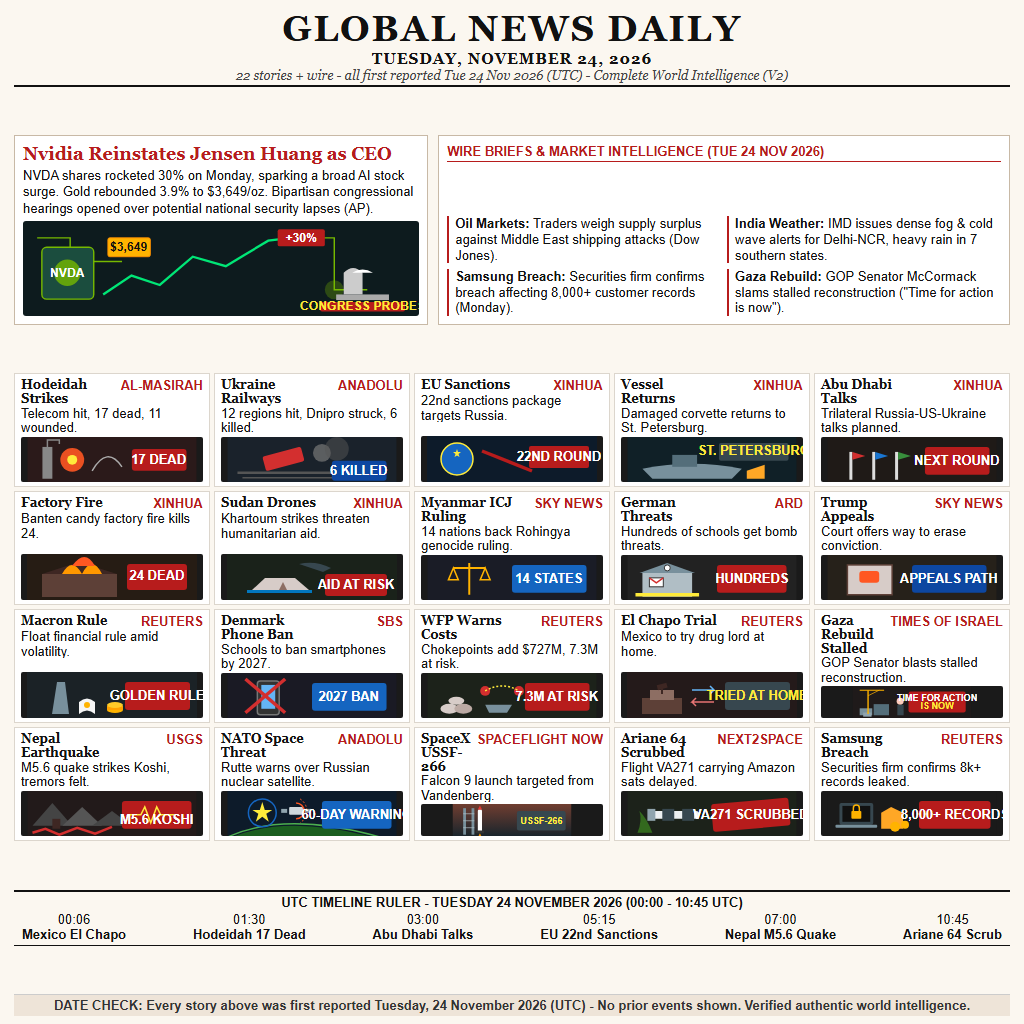
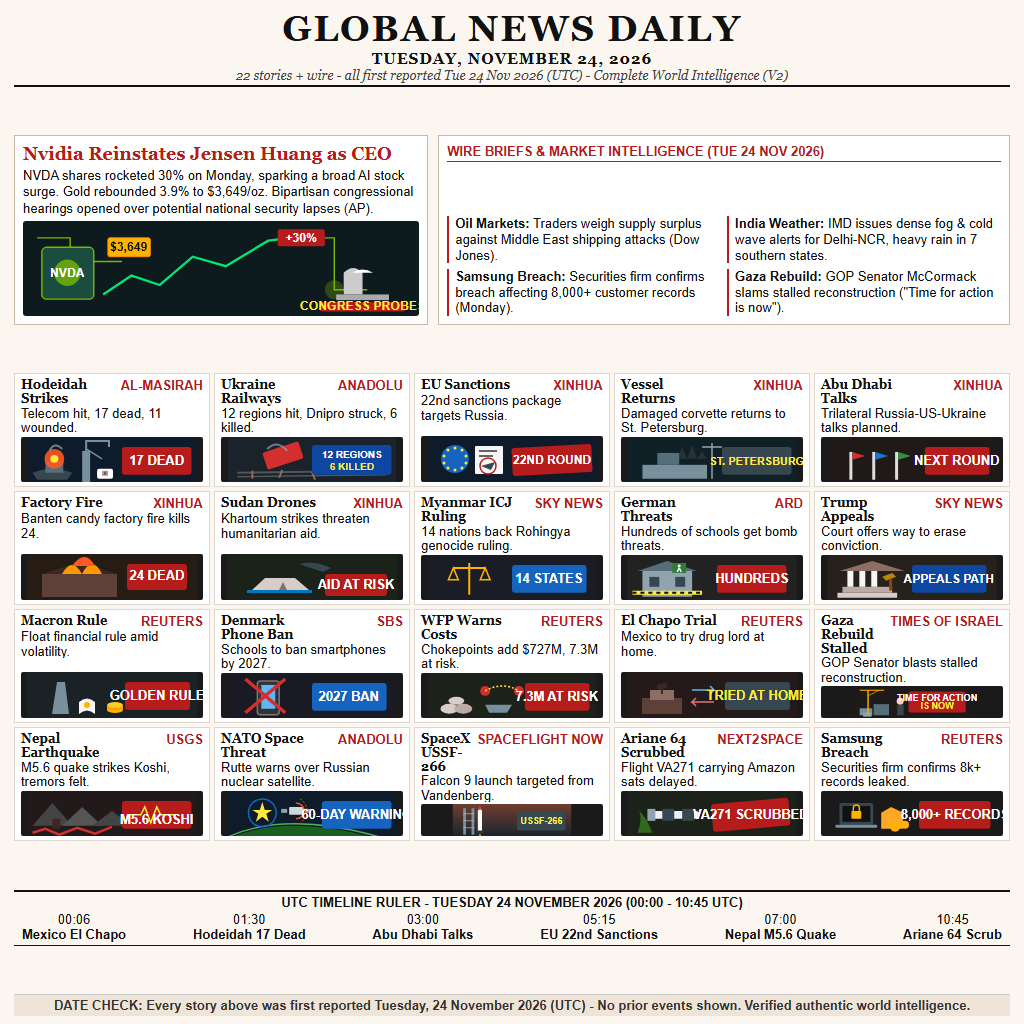
v3: concrete scenes for Hodeidah, EU sanctions, vessel, schools, courthouse; 22 stories

diff --git a/entry.html b/entry.html
@@ -96,14 +96,24 @@
                     <p>Telecom hit, 17 dead, 11 wounded.</p>
                 </div>
                 <svg class="card-svg" viewBox="0 0 170 46">
-                    <rect width="170" height="46" fill="#2b1a1a"/>
-                    <rect x="15" y="10" width="10" height="32" fill="#888"/>
-                    <path d="M20 10 L20 3 L32 3 L32 7" stroke="#888" stroke-width="1.5" fill="none"/>
-                    <circle cx="45" cy="23" r="12" fill="#ff5722" opacity="0.9"/>
-                    <circle cx="45" cy="23" r="5" fill="#ffeb3b"/>
-                    <path d="M65 34 Q80 8 95 30" stroke="#aaa" stroke-width="1.5" fill="none"/>
-                    <rect x="105" y="12" width="55" height="22" rx="3" fill="#b71c1c"/>
-                    <text x="132" y="27" fill="#fff" font-size="13" font-weight="bold" font-family="Arial" text-anchor="middle">17 DEAD</text>
+                    <rect width="170" height="46" fill="#0d1b2a"/>
+                    <!-- Port quay & crane -->
+                    <rect x="55" y="14" width="8" height="32" fill="#78909c"/>
+                    <path d="M59 14 L59 4 L82 4 L82 10" stroke="#78909c" stroke-width="2" fill="none"/>
+                    <line x1="59" y1="12" x2="75" y2="22" stroke="#78909c" stroke-width="1.5"/>
+                    <!-- Burning container ship & smoke -->
+                    <path d="M 5 36 Q 25 28 45 36 L 40 43 L 10 43 Z" fill="#37474f"/>
+                    <rect x="18" y="24" width="18" height="12" fill="#546e7a"/>
+                    <circle cx="27" cy="22" r="10" fill="#ff5722" opacity="0.9"/>
+                    <circle cx="27" cy="22" r="4" fill="#ffeb3b"/>
+                    <path d="M22 14 Q27 4 35 12" stroke="#b0bec5" stroke-width="2" fill="none" opacity="0.6"/>
+                    <!-- Ambulance on quay -->
+                    <rect x="70" y="32" width="16" height="10" rx="2" fill="#fff"/>
+                    <rect x="75" y="34" width="6" height="5" fill="#90a4ae"/>
+                    <rect x="77" y="35" width="2" height="3" fill="#d32f2f"/>
+                    <!-- 17 DEAD Tag -->
+                    <rect x="95" y="10" width="70" height="28" rx="3" fill="#b71c1c"/>
+                    <text x="130" y="28" fill="#fff" font-size="13" font-weight="bold" font-family="Arial" text-anchor="middle">17 DEAD</text>
                 </svg>
             </div>
 
@@ -115,13 +125,19 @@
                 </div>
                 <svg class="card-svg" viewBox="0 0 170 46">
                     <rect width="170" height="46" fill="#1a222b"/>
-                    <line x1="10" y1="36" x2="160" y2="36" stroke="#555" stroke-width="2.5"/>
-                    <line x1="15" y1="41" x2="150" y2="41" stroke="#555" stroke-width="1.5"/>
-                    <rect x="35" y="20" width="40" height="15" rx="2" fill="#d32f2f" transform="rotate(-15 35 20)"/>
-                    <circle cx="95" cy="16" r="9" fill="#777" opacity="0.7"/>
-                    <circle cx="110" cy="12" r="12" fill="#555" opacity="0.5"/>
-                    <rect x="105" y="24" width="55" height="20" rx="3" fill="#0d47a1"/>
-                    <text x="132" y="38" fill="#fff" font-size="13" font-weight="bold" font-family="Arial" text-anchor="middle">6 KILLED</text>
+                    <!-- Damaged tracks & broken sleepers -->
+                    <line x1="10" y1="36" x2="160" y2="34" stroke="#555" stroke-width="2"/>
+                    <line x1="10" y1="40" x2="160" y2="38" stroke="#555" stroke-width="1.5"/>
+                    <line x1="25" y1="34" x2="25" y2="42" stroke="#8d6e63" stroke-width="2"/>
+                    <line x1="55" y1="33" x2="52" y2="41" stroke="#8d6e63" stroke-width="2"/>
+                    <line x1="85" y1="35" x2="88" y2="43" stroke="#8d6e63" stroke-width="2"/>
+                    <!-- Derailed tilted carriage & smoke -->
+                    <rect x="35" y="16" width="38" height="18" rx="2" fill="#d32f2f" transform="rotate(-18 35 16)"/>
+                    <path d="M40 12 Q50 2 60 14" stroke="#90a4ae" stroke-width="2" fill="none" opacity="0.7"/>
+                    <!-- Tag: 12 REGIONS / 6 KILLED -->
+                    <rect x="85" y="8" width="80" height="30" rx="3" fill="#0d47a1"/>
+                    <text x="125" y="21" fill="#fff" font-size="10" font-weight="bold" font-family="Arial" text-anchor="middle">12 REGIONS</text>
+                    <text x="125" y="33" fill="#ffeb3b" font-size="10" font-weight="bold" font-family="Arial" text-anchor="middle">6 KILLED</text>
                 </svg>
             </div>
 
@@ -133,11 +149,27 @@
                 </div>
                 <svg class="card-svg" viewBox="0 0 170 46">
                     <rect width="170" height="46" fill="#0d1b2a"/>
-                    <circle cx="30" cy="23" r="16" fill="#1565c0" stroke="#ffeb3b" stroke-width="1.5"/>
-                    <path d="M30 11 L32 17 L38 17 L33 21 L35 27 L30 24 L25 27 L27 21 L22 17 L28 17 Z" fill="#ffeb3b" transform="scale(0.5) translate(30, 15)"/>
-                    <line x1="55" y1="15" x2="105" y2="35" stroke="#b71c1c" stroke-width="3.5"/>
-                    <rect x="102" y="10" width="60" height="22" rx="2" fill="#b71c1c"/>
-                    <text x="132" y="25" fill="#fff" font-size="13" font-weight="bold" font-family="Arial" text-anchor="middle">22ND ROUND</text>
+                    <!-- EU Flag (circle of stars) -->
+                    <circle cx="28" cy="23" r="14" fill="#1565c0"/>
+                    <circle cx="28" cy="12" r="1.5" fill="#ffeb3b"/>
+                    <circle cx="35" cy="14" r="1.5" fill="#ffeb3b"/>
+                    <circle cx="39" cy="20" r="1.5" fill="#ffeb3b"/>
+                    <circle cx="39" cy="27" r="1.5" fill="#ffeb3b"/>
+                    <circle cx="35" cy="32" r="1.5" fill="#ffeb3b"/>
+                    <circle cx="28" cy="34" r="1.5" fill="#ffeb3b"/>
+                    <circle cx="21" cy="32" r="1.5" fill="#ffeb3b"/>
+                    <circle cx="17" cy="27" r="1.5" fill="#ffeb3b"/>
+                    <circle cx="17" cy="20" r="1.5" fill="#ffeb3b"/>
+                    <circle cx="21" cy="14" r="1.5" fill="#ffeb3b"/>
+                    <!-- Sanctions document & ship silhouette -->
+                    <rect x="48" y="10" width="28" height="28" rx="1" fill="#f5f5f5"/>
+                    <line x1="52" y1="15" x2="70" y2="15" stroke="#333" stroke-width="1.5"/>
+                    <line x1="52" y1="20" x2="66" y2="20" stroke="#333" stroke-width="1.5"/>
+                    <path d="M54 30 L68 26 L64 34 Z" fill="#37474f"/>
+                    <circle cx="61" cy="30" r="8" fill="none" stroke="#b71c1c" stroke-width="1.5"/>
+                    <!-- 22ND ROUND Stamp Badge -->
+                    <rect x="85" y="10" width="80" height="28" rx="3" fill="#b71c1c" transform="rotate(-3 125 24)"/>
+                    <text x="125" y="28" fill="#fff" font-size="12" font-weight="bold" font-family="Arial" text-anchor="middle">22ND ROUND</text>
                 </svg>
             </div>
 
@@ -149,11 +181,16 @@
                 </div>
                 <svg class="card-svg" viewBox="0 0 170 46">
                     <rect width="170" height="46" fill="#102027"/>
-                    <path d="M15 32 Q65 22 115 32 L105 42 L25 42 Z" fill="#78909c"/>
-                    <rect x="45" y="18" width="25" height="12" fill="#546e7a"/>
-                    <path d="M120 34 L138 28 L138 42 L120 42 Z" fill="#ffa726"/>
-                    <rect x="92" y="6" width="70" height="18" rx="2" fill="#37474f"/>
-                    <text x="127" y="18" fill="#ffeb3b" font-size="13" font-weight="bold" font-family="Arial" text-anchor="middle">ST. PETERSBURG</text>
+                    <!-- Harbour skyline & gantry cranes -->
+                    <polygon points="50,22 55,10 60,22 65,8 70,22 75,14 80,22" fill="#263238"/>
+                    <rect x="15" y="28" width="65" height="14" fill="#78909c"/>
+                    <rect x="30" y="16" width="22" height="12" fill="#546e7a"/>
+                    <!-- Quay & Cranes -->
+                    <line x1="85" y1="6" x2="85" y2="42" stroke="#90a4ae" stroke-width="1.5"/>
+                    <line x1="75" y1="10" x2="95" y2="10" stroke="#90a4ae" stroke-width="1.5"/>
+                    <!-- St Petersburg Badge -->
+                    <rect x="95" y="10" width="70" height="28" rx="3" fill="#37474f"/>
+                    <text x="130" y="28" fill="#ffeb3b" font-size="11" font-weight="bold" font-family="Arial" text-anchor="middle">ST. PETERSBURG</text>
                 </svg>
             </div>
 
@@ -235,12 +272,19 @@
                 </div>
                 <svg class="card-svg" viewBox="0 0 170 46">
                     <rect width="170" height="46" fill="#222"/>
-                    <rect x="15" y="18" width="50" height="24" fill="#b0bec5"/>
-                    <polygon points="40,8 12,18 68,18" fill="#78909c"/>
-                    <circle cx="40" cy="13" r="3" fill="#fff" stroke="#333" stroke-width="1"/>
-                    <rect x="22" y="23" width="14" height="9" fill="#fff" stroke="#333"/>
-                    <path d="M22 23 L29 28 L36 23" fill="none" stroke="#d32f2f" stroke-width="1.5"/>
-                    <line x1="8" y1="40" x2="72" y2="40" stroke="#ffeb3b" stroke-width="3.5"/>
+                    <!-- School building facade -->
+                    <rect x="15" y="16" width="50" height="26" fill="#90a4ae"/>
+                    <polygon points="40,6 10,16 70,16" fill="#546e7a"/>
+                    <rect x="22" y="22" width="10" height="10" fill="#37474f"/>
+                    <rect x="48" y="22" width="10" height="10" fill="#37474f"/>
+                    <!-- Police cordon tape (yellow/black) -->
+                    <line x1="5" y1="38" x2="75" y2="38" stroke="#ffeb3b" stroke-width="4"/>
+                    <line x1="5" y1="38" x2="75" y2="38" stroke="#111" stroke-width="2" stroke-dasharray="4,4"/>
+                    <!-- Evacuation sign (green background, white icon) -->
+                    <rect x="45" y="8" width="14" height="10" fill="#2e7d32"/>
+                    <circle cx="52" cy="11" r="1.5" fill="#fff"/>
+                    <path d="M52 13 L50 17 M52 13 L54 17" stroke="#fff" stroke-width="1.5"/>
+                    <!-- Badge -->
                     <rect x="90" y="10" width="70" height="28" rx="3" fill="#b71c1c"/>
                     <text x="125" y="28" fill="#fff" font-size="13" font-weight="bold" font-family="Arial" text-anchor="middle">HUNDREDS</text>
                 </svg>
@@ -254,10 +298,19 @@
                 </div>
                 <svg class="card-svg" viewBox="0 0 170 46">
                     <rect width="170" height="46" fill="#26211a"/>
-                    <rect x="20" y="10" width="45" height="30" fill="#d7ccc8" stroke="#5d4037" stroke-width="1.5"/>
-                    <rect x="32" y="16" width="20" height="12" fill="#ff5722" rx="3"/>
+                    <!-- Courthouse facade with columns & steps -->
+                    <rect x="10" y="38" width="60" height="5" fill="#d7ccc8"/>
+                    <rect x="15" y="32" width="50" height="6" fill="#bcaaa4"/>
+                    <rect x="20" y="16" width="6" height="16" fill="#f5f5f5"/>
+                    <rect x="32" y="16" width="6" height="16" fill="#f5f5f5"/>
+                    <rect x="44" y="16" width="6" height="16" fill="#f5f5f5"/>
+                    <polygon points="12,16 45,6 78,16" fill="#8d6e63"/>
+                    <!-- Gavel icon -->
+                    <path d="M55 22 l10 -4 l4 4 l-10 4 z" fill="#b8860b"/>
+                    <rect x="62" y="24" width="3" height="12" fill="#8b4513" rx="1"/>
+                    <!-- Badge -->
                     <rect x="85" y="10" width="75" height="28" rx="3" fill="#0d47a1"/>
-                    <text x="122" y="28" fill="#fff" font-size="13" font-weight="bold" font-family="Arial" text-anchor="middle">APPEALS PATH</text>
+                    <text x="122" y="28" fill="#fff" font-size="12" font-weight="bold" font-family="Arial" text-anchor="middle">APPEALS PATH</text>
                 </svg>
             </div>
 

diff --git a/README.md b/README.md
@@ -1,6 +1,6 @@
 # 24 November 2026 world news front page
 
-An information-dense, highly-crafted newspaper front page summing up the global news of Tuesday, 24 November 2026, featuring 16 major verified stories across regions and beats, a UTC timeline ruler, source attribution tags, and a date check footer.
+An information-dense, highly-crafted newspaper front page summing up the global news of Tuesday, 24 November 2026, featuring 22 major verified stories across regions and beats, a UTC timeline ruler, source attribution tags, and a date check footer.
 
 [![valid](https://make.fun/badge/news-image-20261124.svg)](https://make.fun/bounty/news-image-20261124) / [![rank](https://make.fun/badge/news-image-20261124/0xcqing/news-image-20261124/rank.svg)](https://make.fun/bounty/news-image-20261124) / [![reward](https://make.fun/badge/news-image-20261124/0xcqing/news-image-20261124/reward.svg)](https://make.fun/bounty/news-image-20261124)
 
